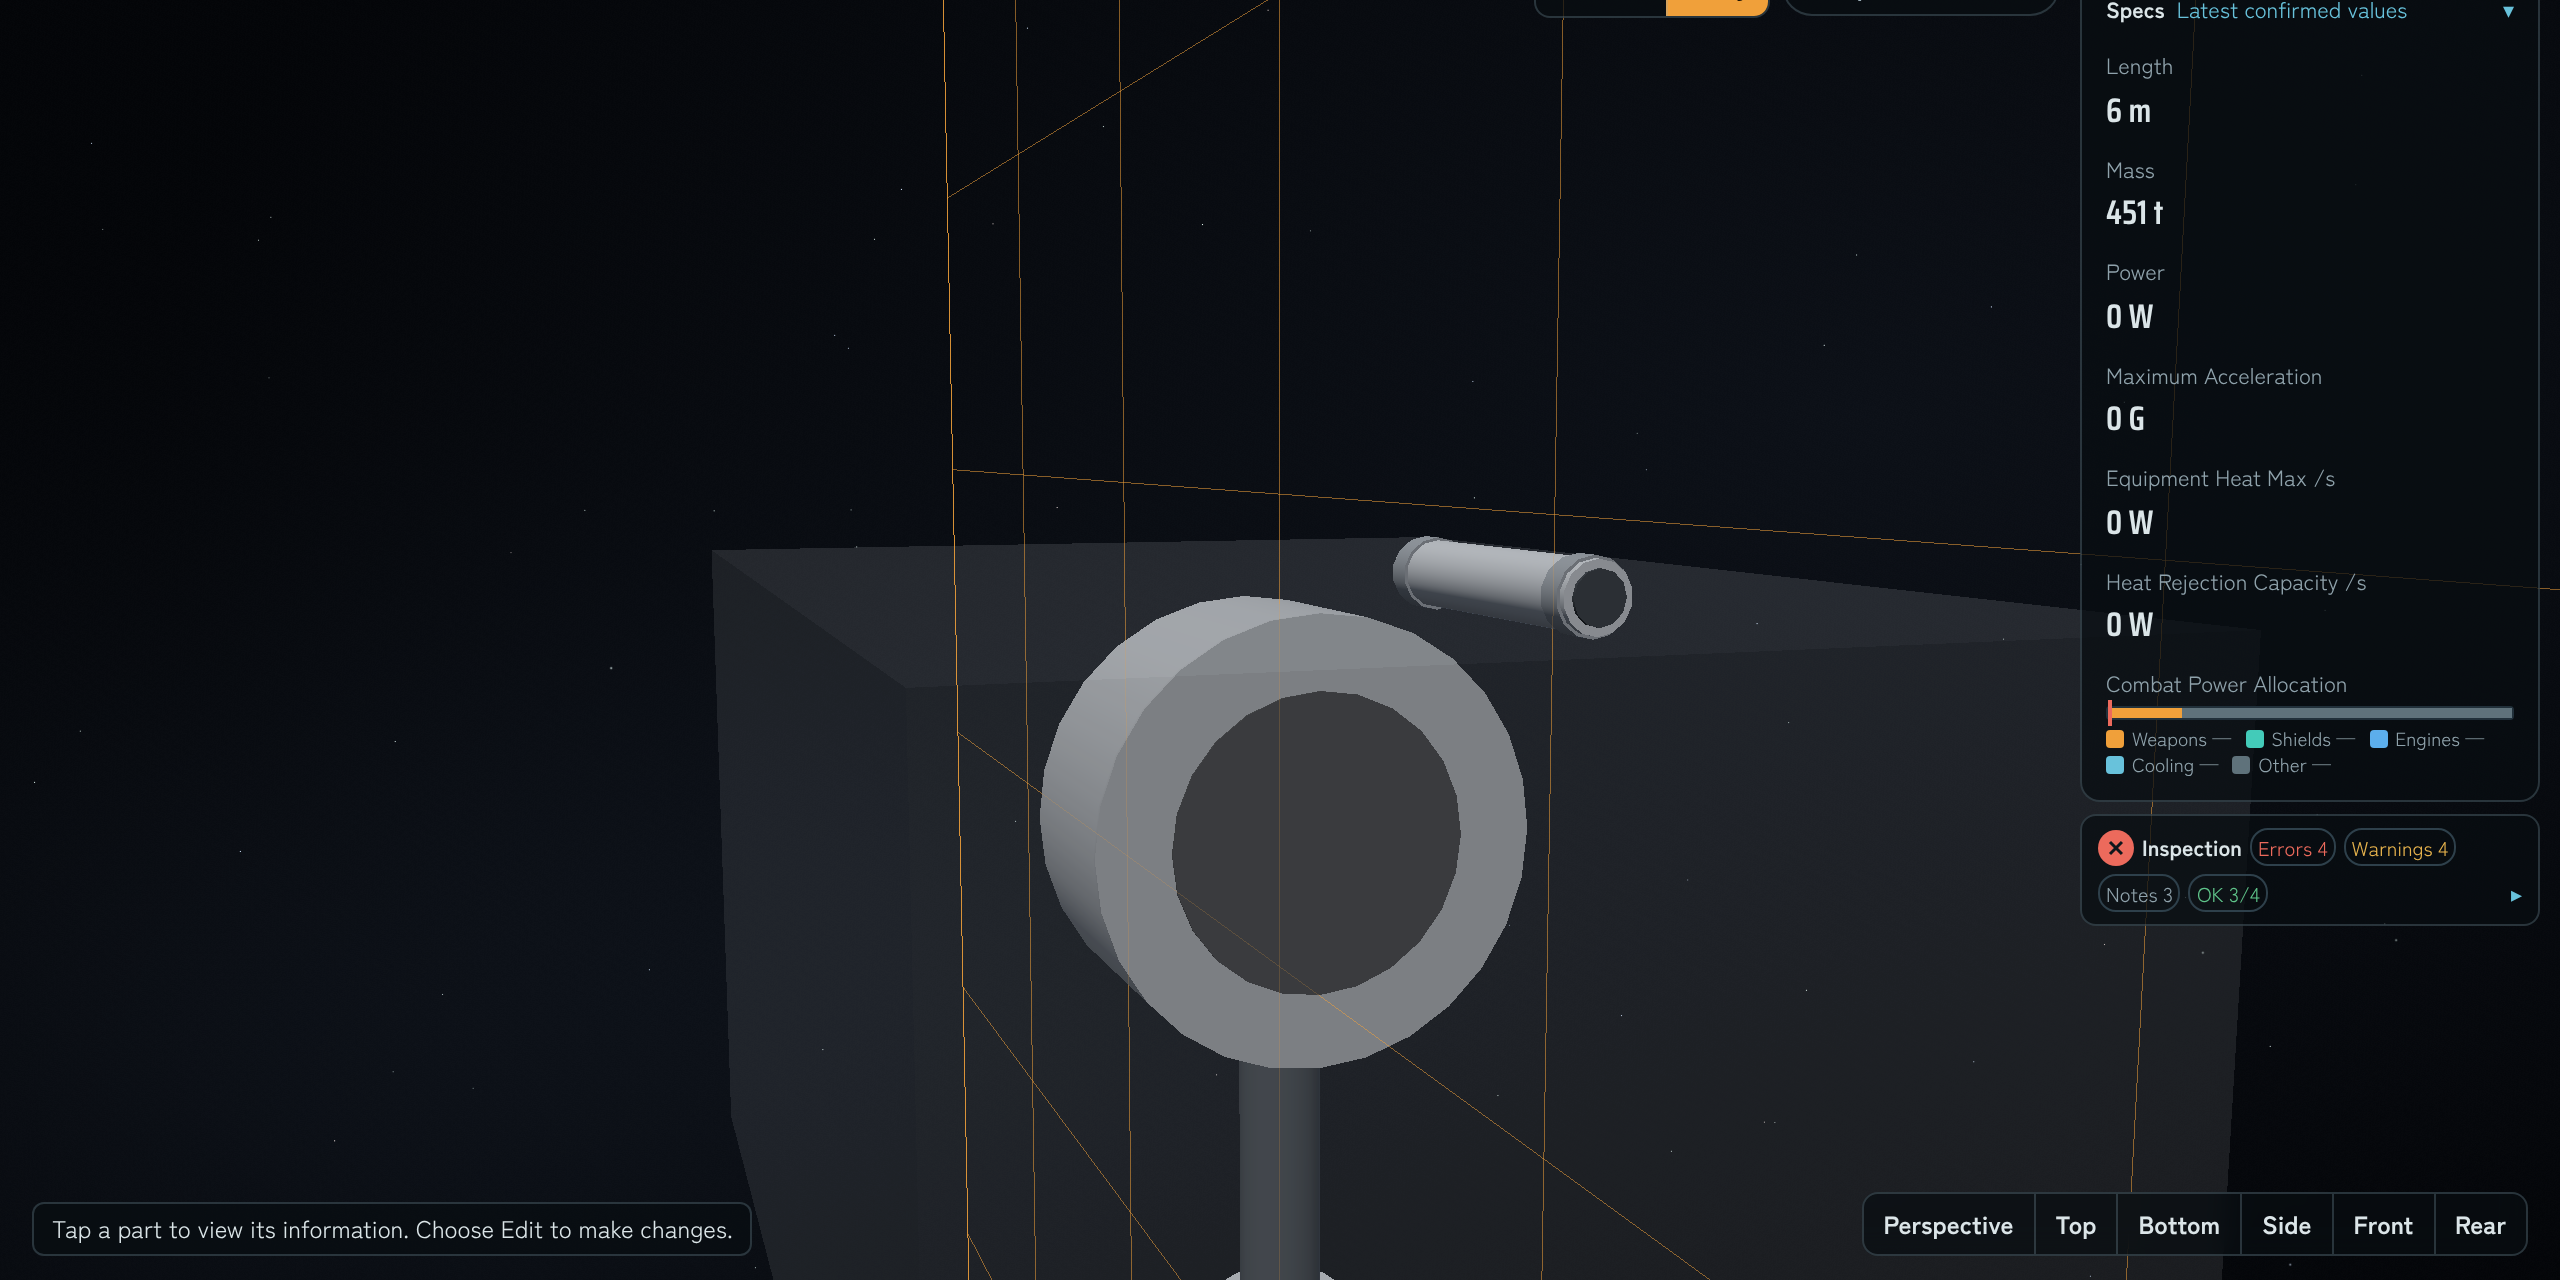
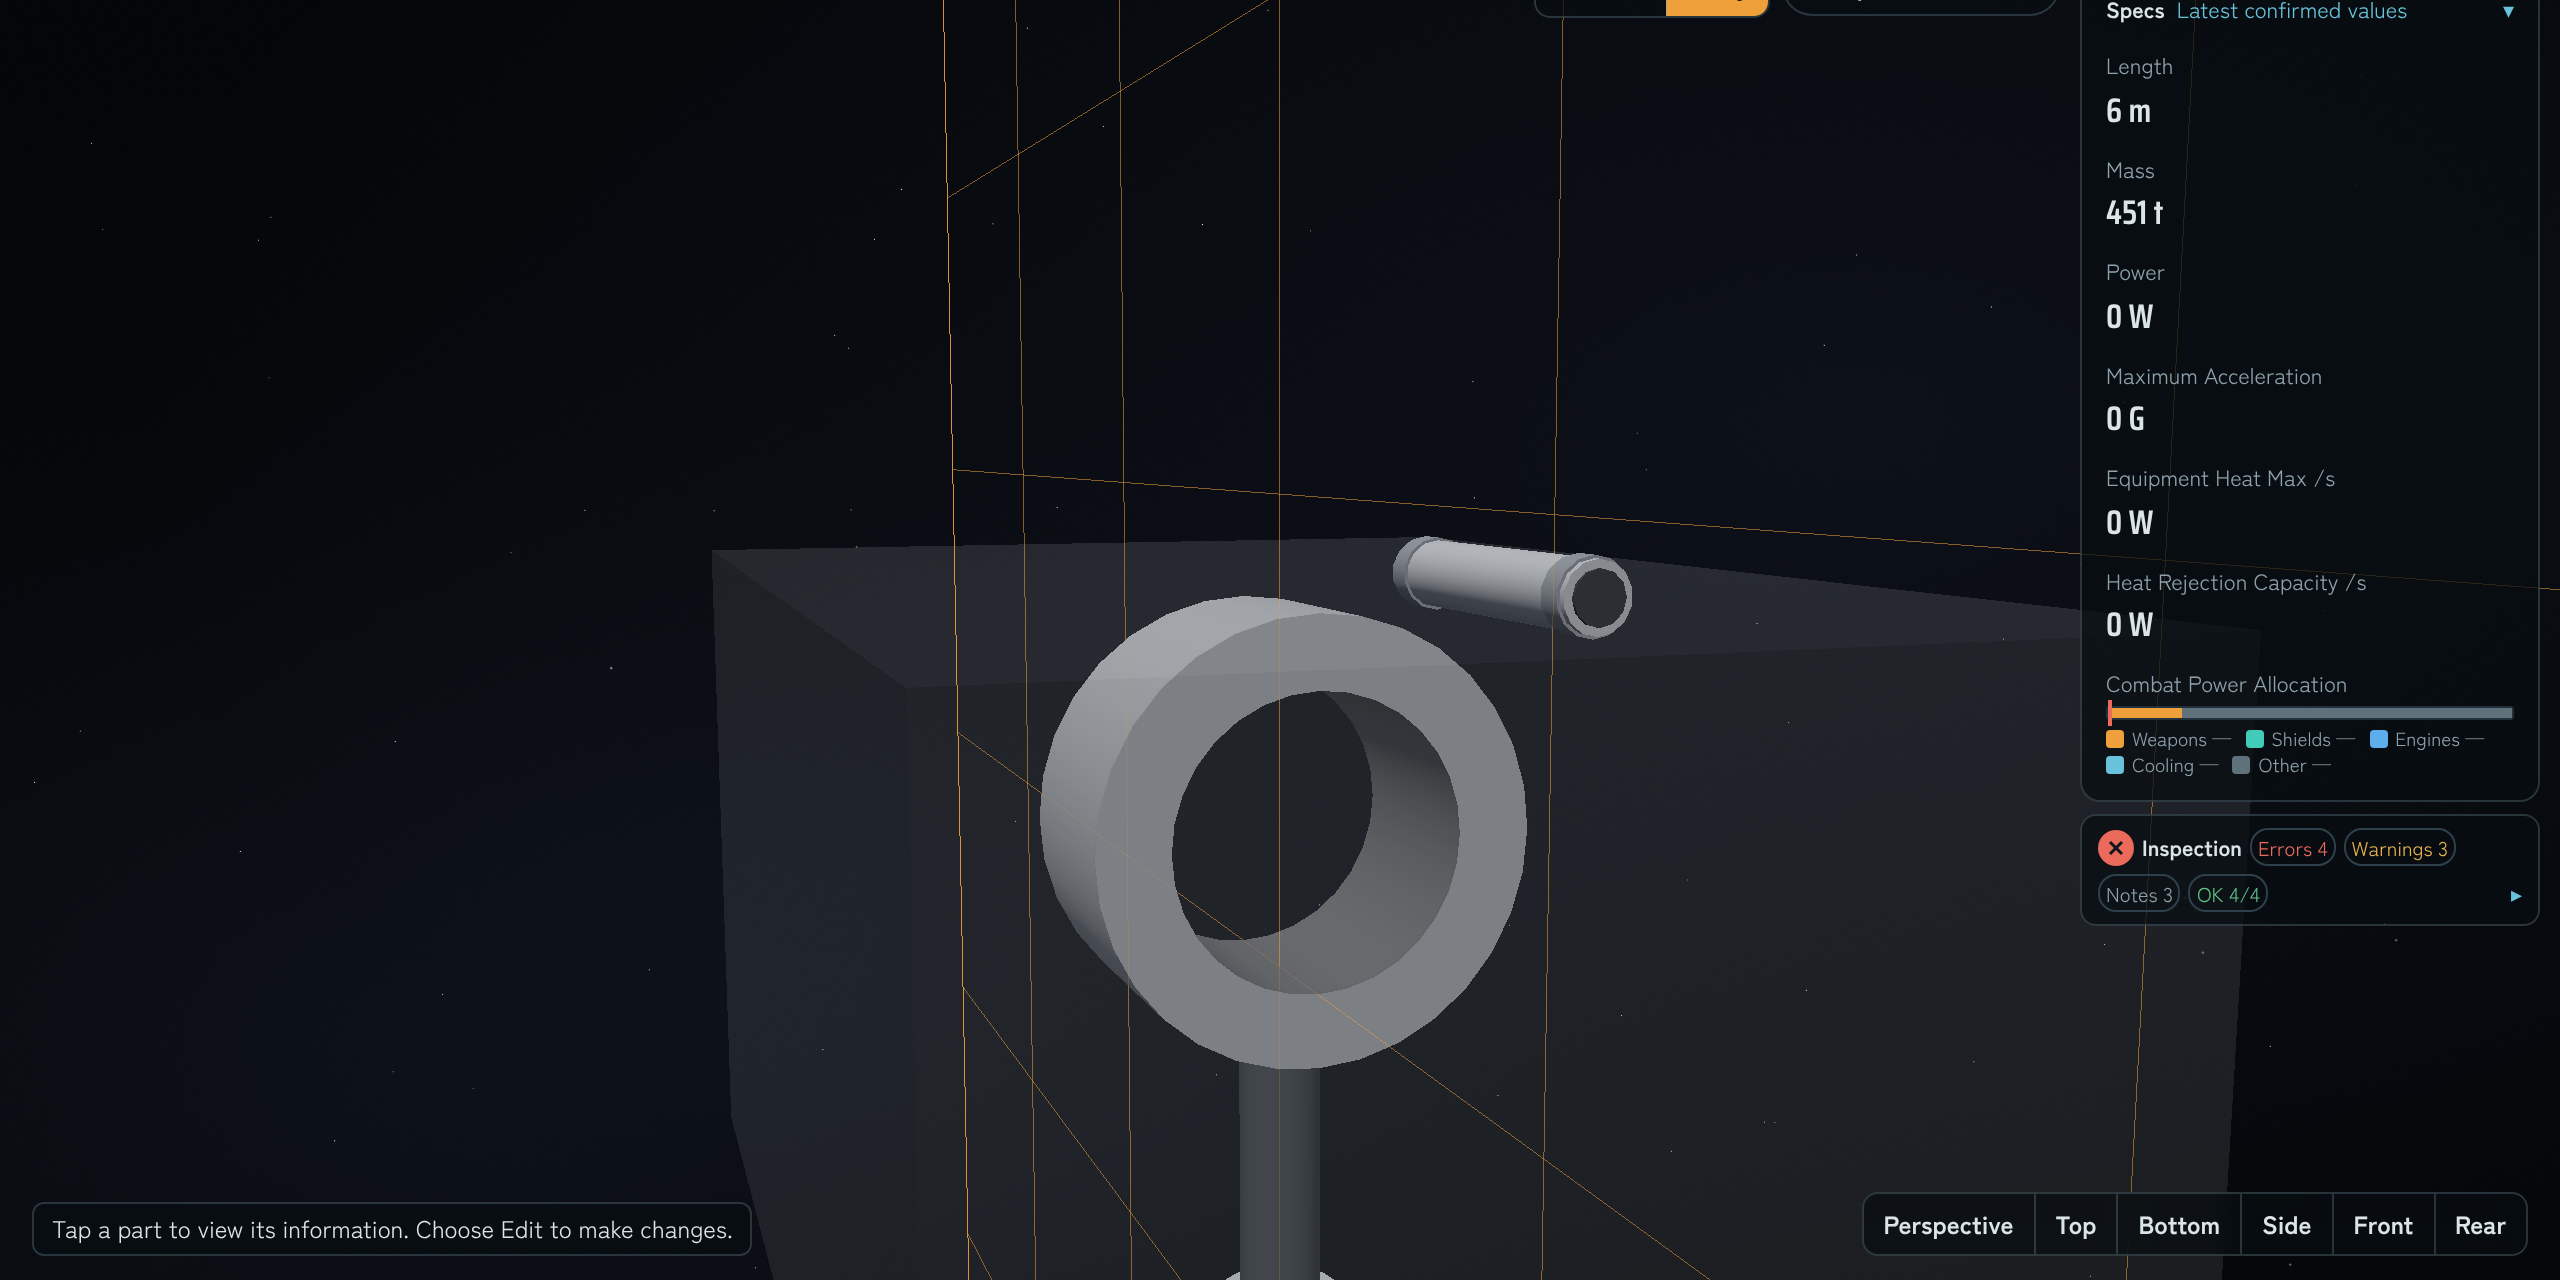
The ring bomb bay is drawn as the ring alone: its middle is open (user 2026-11-26); evidence retaken
Claude-Session: https://claude.ai/code/session_01GGYoFi4wrX6vaJUt9WdesY

Changed region(s): [[0.4375, 0.5312, 0.5938, 0.7812]]

diff --git a/js/gfx.js b/js/gfx.js
@@ -2192,6 +2192,12 @@ function triangleMesh(g,T,col,scale=48,alpha=255){
     const k=g.n;g.v(ax,ay,az,nx,ny,nz,ax/scale,(ay+az)/scale,col,alpha);g.v(bx,by,bz,nx,ny,nz,bx/scale,(by+bz)/scale,col,alpha);g.v(cx,cy,cz,nx,ny,nz,cx/scale,(cy+cz)/scale,col,alpha);g.tri(k,k+1,k+2);
   }
 }
+// A flat ring (inner radius ri, outer ro) at o, facing along n.
+function ringCap(g,o,n,ri,ro,col,segments){
+  const f=C.frameAxis(n),N=segments||24,base=g.n;g.room((N+1)*2,N*6);
+  for(let i=0;i<=N;i++){const t=i/N*Math.PI*2,c=Math.cos(t),s=Math.sin(t),at=r=>C.add(o,C.add(C.mul(f.v,c*r),C.mul(f.w,s*r)));g.v(...at(ri),...f.u,i/N*4,0,col,255);g.v(...at(ro),...f.u,i/N*4,(ro-ri)/64,col,255);}
+  for(let i=0;i<N;i++){const a=base+i*2,b=a+1,c=a+2,d=a+3;g.tri(a,b,d);g.tri(a,d,c);g.tri(a,d,b);g.tri(a,c,d);}
+}
 function axisFrustum(g,a,b,r0,r1,col,caps=true,inward=false,segments){
   const delta=C.sub(b,a),l=C.len(delta);if(!(l>1e-9)||!(r0>0||r1>0))return;
   const f=C.frameAxis(delta),N=segments||radialSegments(Math.max(r0,r1)),circle=roundCircle(N),base=g.n,p=(o,r,i)=>C.add(o,C.add(C.mul(f.v,circle[i][0]*r),C.mul(f.w,circle[i][1]*r)));
@@ -2281,7 +2287,7 @@ function meshOnePart(out,p,ship,opt,glow){
     if(d.shape==='sphere'){sphere(C.isInternal(p)?out.interior:k==='gen'?out.gen:out.shield,p.c,p.d/2,color,8,3);return;}
     // 2026-11-26 A ring bomb bay is drawn as what it is (user「爆弾倉が円筒型になってなくない？」): a cylinder along its length, as wide as its room, with the
     // hollow inside the 0.3 m ring of bombs shown at both ends.
-    if(k==='bombBay'&&p.bayRing===true&&Array.isArray(p.room)){const L=p.room[0],R=Math.min(p.room[1],p.room[2])/2,ri=Math.max(0,R-(C.CRAFT_BAY?.cell||.3)),a=C.add(p.c,[-L/2,0,0]),b=C.add(p.c,[L/2,0,0]),dark=Array.isArray(color)?color.map(v=>Math.round(v*.35)):color;axisFrustum(out.interior,a,b,R,R,color,true,false,28);if(ri>.02)axisFrustum(out.interior,C.add(a,[-.01,0,0]),C.add(b,[.01,0,0]),ri,ri,dark,true,false,24);return;}
+    if(k==='bombBay'&&p.bayRing===true&&Array.isArray(p.room)){const L=p.room[0],R=Math.min(p.room[1],p.room[2])/2,ri=Math.max(0,R-(C.CRAFT_BAY?.cell||.3)),a=C.add(p.c,[-L/2,0,0]),b=C.add(p.c,[L/2,0,0]),dark=Array.isArray(color)?color.map(v=>Math.round(v*.6)):color;if(ri>.02){/* the ring alone: its outer wall, its inner wall facing the hollow, and a flat ring at each end; the middle is open (user「真ん中は空き空間じゃないの？」) */axisFrustum(out.interior,a,b,R,R,color,false,false,32);axisFrustum(out.interior,a,b,ri,ri,dark,false,true,32);ringCap(out.interior,a,[-1,0,0],ri,R,color,32);ringCap(out.interior,b,[1,0,0],ri,R,color,32);}else axisFrustum(out.interior,a,b,R,R,color,true,false,28);return;}
     if(d.shape==='cube'){if(p.room||p._clip){roomMesh(ship,p,k==='hangar'&&ship.hatches.some(h=>h.bay===p.id)?out.hangar:out.interior,color);}else{const r=p.d/2;boxSolid(k==='hangar'&&ship.hatches.some(h=>h.bay===p.id)?out.hangar:out.interior,C.sub(p.c,[r,r,r]),C.add(p.c,[r,r,r]),color,32);}return;}
     const m=C.partDims(p),u=C.norm(p.dir||(k==='engine'?[-1,0,0]:[1,0,0])),a=C.sub(p.c,C.mul(u,m.l/2)),b=C.add(p.c,C.mul(u,m.l/2));
     if(k==='engine'){engineBell(out,p,a,b,u,color,glow,ship);return;}

diff --git a/docs/benchmarks/parts-2026-11-26/README.md b/docs/benchmarks/parts-2026-11-26/README.md
@@ -216,3 +216,4 @@ PR #127 のあとの PR。範囲とユーザーの決定は `docs/handoff-2026-1
 - ユーザー（原文）：「円筒型になってなくない？／爆弾倉が円筒型になってなくない？」（X 線表示で箱として出ていた）。
 - 描画（`js/gfx.js` だけの変更）：円筒型の爆弾倉（`bayRing`）は、長さの方向を軸にした円筒で、直径は区画の幅と高さの小さいほう。両端に、幅 0.3 m の輪の内側の空洞を暗い円で見せる。`browser/way-xray-end.png`。
 - ★ まだ箱のままのもの（決めてもらう点）：設計の計算の側（体積・質量、ほかの機材との重なりの判定、編集画面の寸法の欄）は、長さ × 幅 × 高さの箱のまま。輪の内側の空洞に置いた機材と弾薬庫の枠は、爆弾倉と重ならない扱いにした（`ringBayHollowHoldsBox`：長さの方向から見て、機材の箱が輪の内側の空洞に収まっていれば重ならない。両端からはみ出してよい。TIE/sa の兵装ポッドの形＝ユーザー「円周に爆弾倉を備えて、中にの中心にミサイル発射器を置いて周りに弾薬庫を広げてる形」）。編集画面で空洞の中へ実際に置けるかは未確認（置くときの干渉の判定は別の経路も通る）。爆弾の数は輪の決まり（1 列＝円周 ÷ 0.3 m、長さ 0.3 m ごとに 1 列）で出している。
+- ユーザー（原文、上の画像に対して）：「真ん中は空き空間じゃないの？」。輪の内側を暗い円で塗って見せていたのを直し、輪だけ（外側の壁、空洞に面した内側の壁、両端の平らな輪）を描いて、真ん中は開けた。`browser/way-xray-end.png` を撮り直した。
